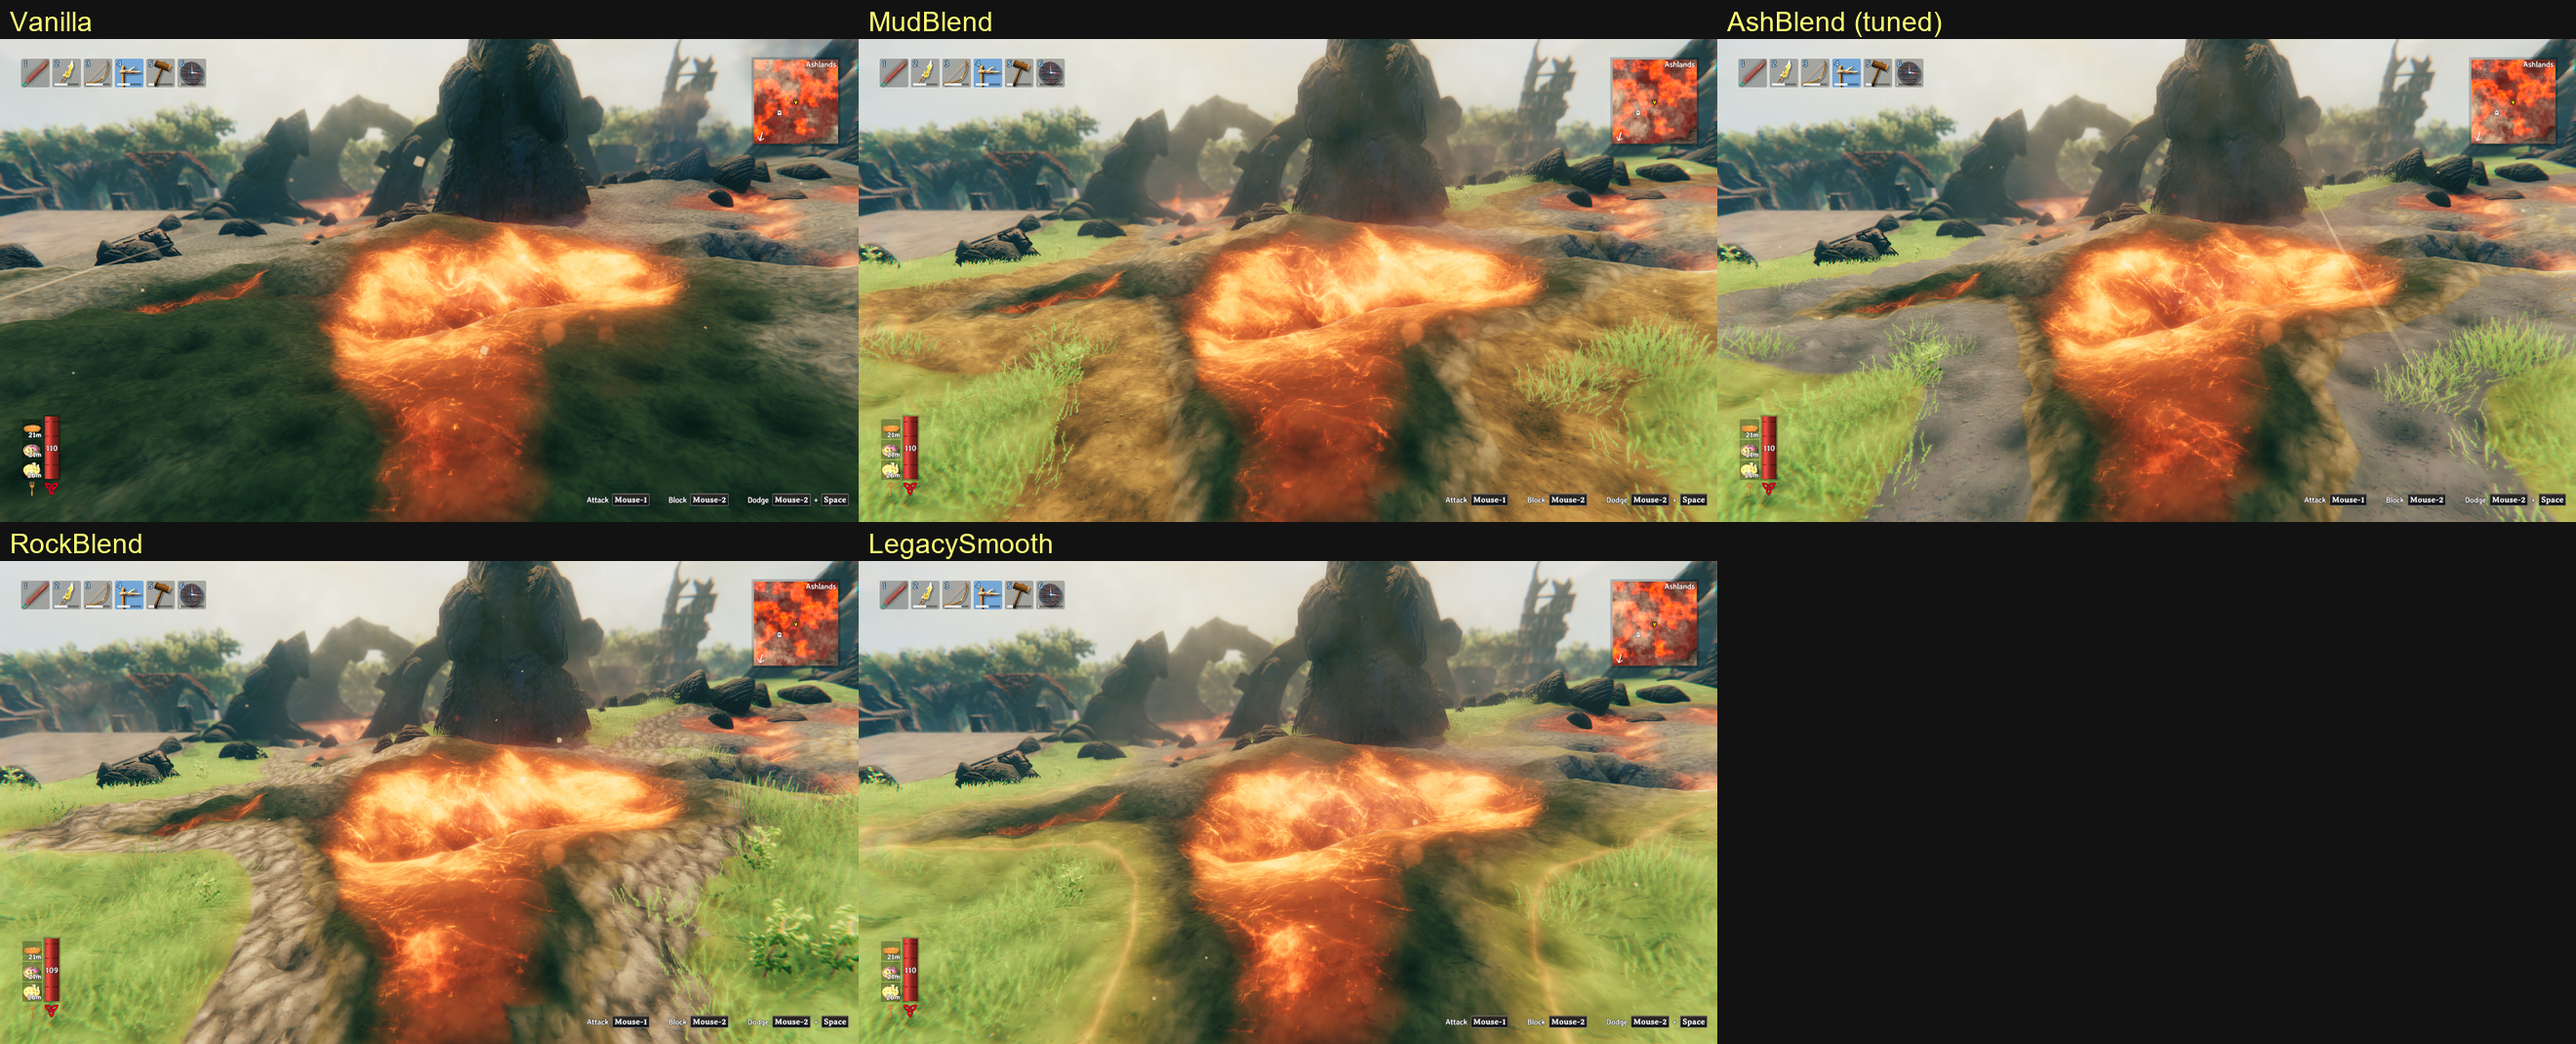
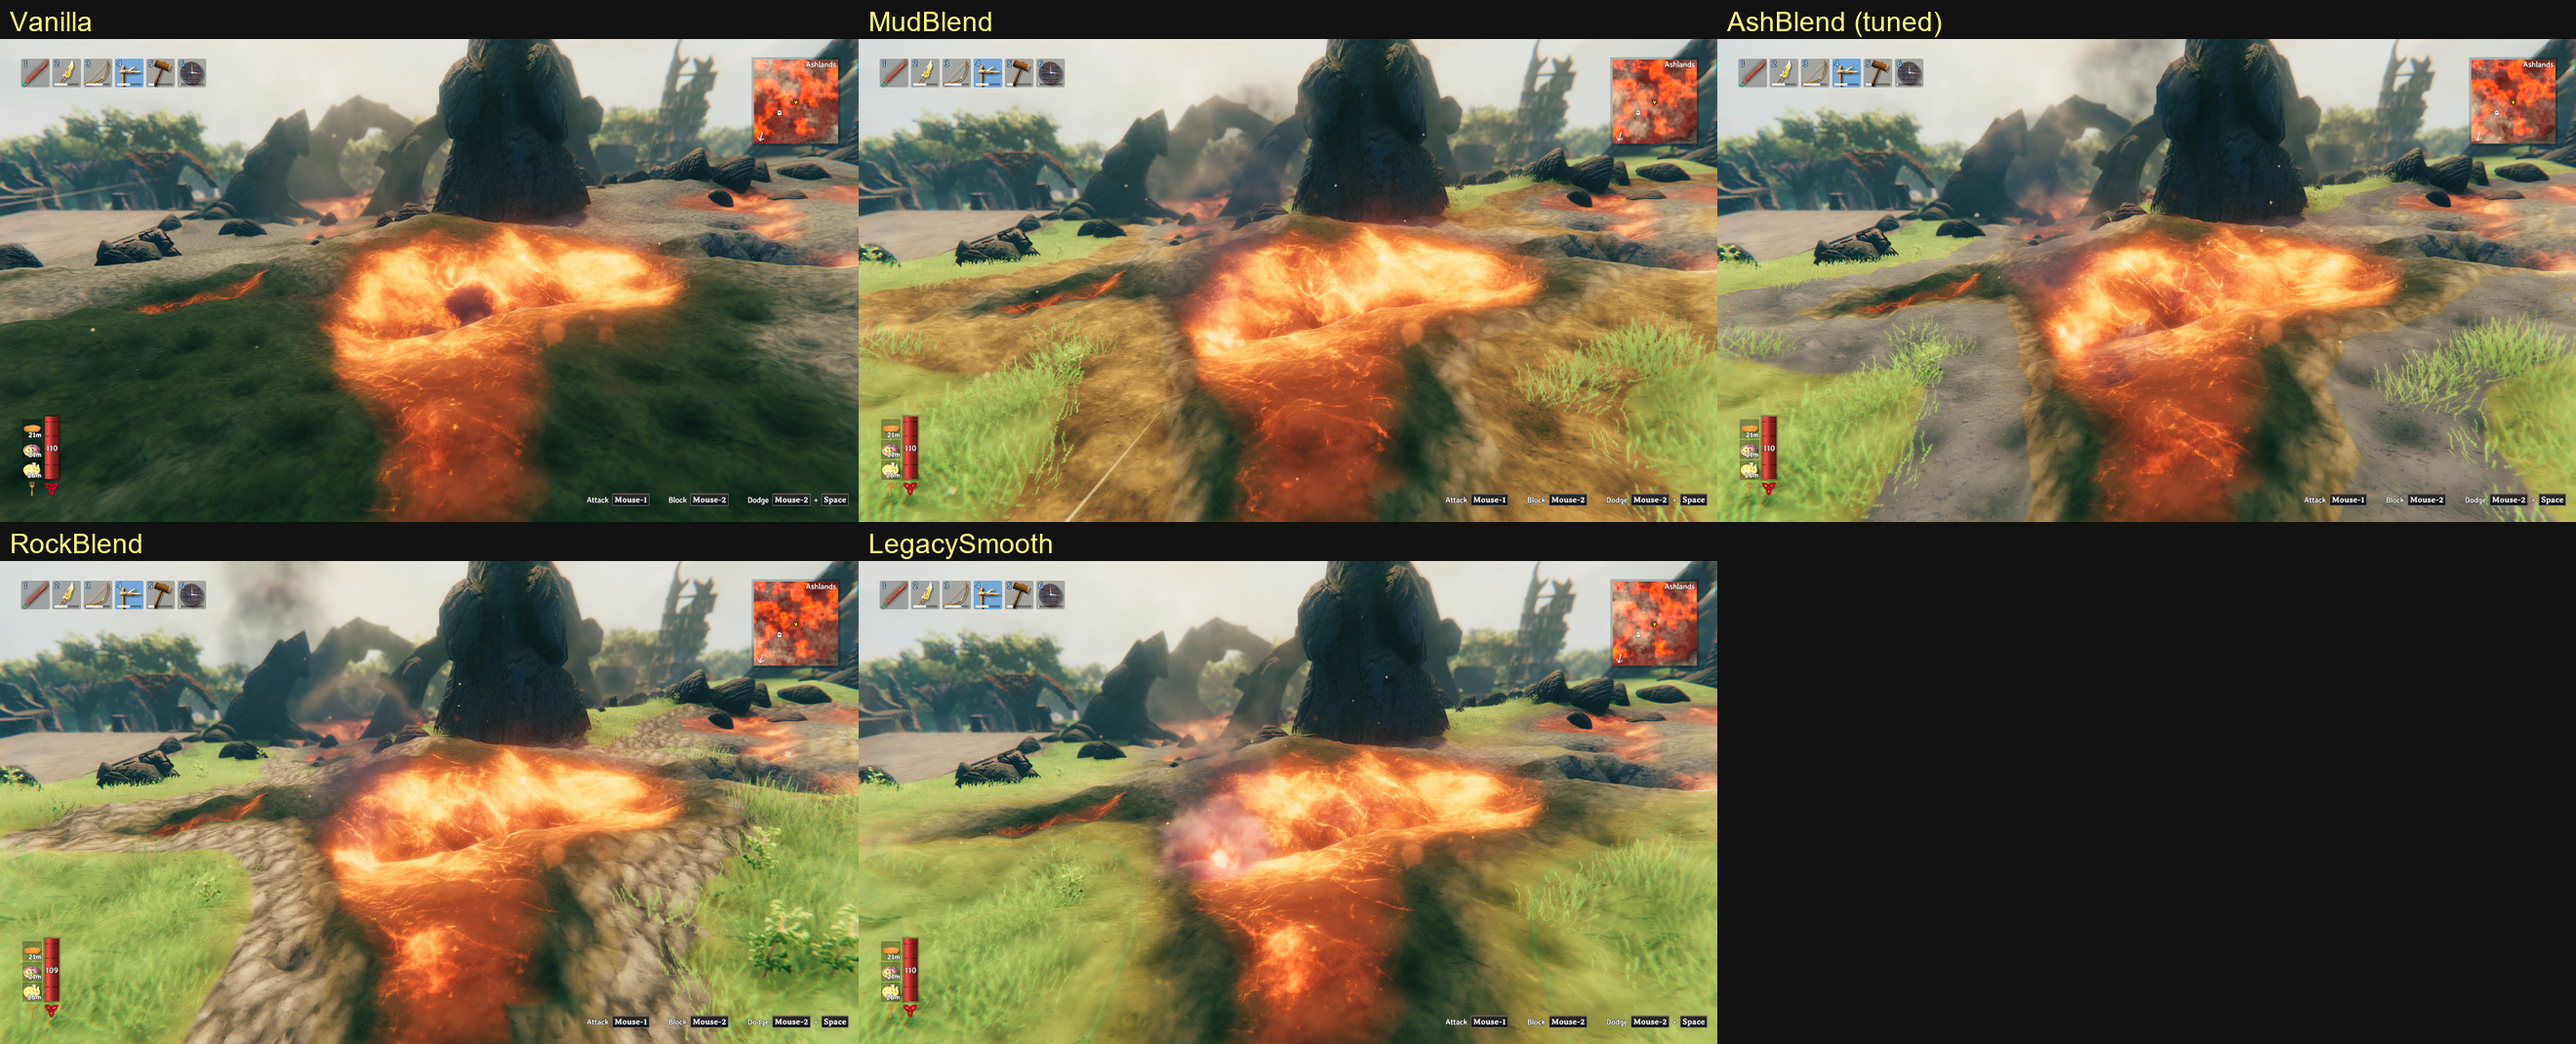
v4.2 wrap-up: plains line hidden; gallery, composites, docs, recon notes
Final verification (run 7, LegacySmoothSwapSlices=8:0 active): LAVACHECK/
GRASSCHECK PASS for all styled paths. Gallery refreshed; new composites:
compare_legacysmooth_plains_line (before/after) and the diagonal-ramp
diagnostic shot. SHADER_SLICE_MAPPING gains the v4.2 recon (slice 8
confirmed as the Plains overlay, line floats inside green because the
perceptual green/ash crossover sits near the ash end of the diagonal).

diff --git a/AshlandsReborn/README.md b/AshlandsReborn/README.md
@@ -18,7 +18,7 @@ BepInEx plugin that overrides Ashlands environment to Meadows-like weather (clea
 - **MasterSwitch** (default: true) - Master toggle: turn the entire mod on or off. When off, Ashlands uses default weather and terrain.
 - **EnableWeatherOverride** (default: true) - Override Ashlands weather to Meadows-like (clear sky, no cinder rain, no lava fog).
 - **EnableTerrainOverride** (default: true) - Override Ashlands terrain and grass to Meadows-like (green ground, green grass).
-- **TerrainTransitionStyle** (default: MudBlend) - How green terrain fades into ash/lava. `MudBlend` = grass -> scorched mud -> ash -> lava with organic noisy edges. `AshBlend` = the same fade but with no mud at all: grass fades directly into ash (the mod re-textures the mud layer as tone-graded ash on Ashlands chunks). `RockBlend` = a tight gray-rock rim between grass and lava, imitating the look of pickaxe-dug ground at the lava's edge. `GrassToLava` = grass runs almost to the lava rivers with a tight mud/ash rim. `Legacy` = the original binary stamp (blocky edges + yellow fringe). `LegacySmooth` = green blends straight into ash across one smooth curved fade, no mud stage (a soft warm tinge mid-fade replaces Legacy's hard yellow fringe). `DebugGradient` = dev calibration strips. Changing it live-rebuilds nearby terrain.
+- **TerrainTransitionStyle** (default: MudBlend) - How green terrain fades into ash/lava. `MudBlend` = grass -> scorched mud -> ash -> lava with organic noisy edges. `AshBlend` = the same fade but with no mud at all: grass fades directly into ash (the mod re-textures the mud layer as tone-graded ash on Ashlands chunks). `RockBlend` = a tight gray-rock rim between grass and lava, imitating the look of pickaxe-dug ground at the lava's edge. `GrassToLava` = grass runs almost to the lava rivers with a tight mud/ash rim. `Legacy` = the original binary stamp (blocky edges + yellow fringe). `LegacySmooth` = green blends straight into ash across one smooth curved fade, no mud stage (the yellow plains tinge the blend would produce mid-fade is re-textured as meadows grass - see LegacySmoothSwapSlices). `DebugGradient` = dev calibration strips. Changing it live-rebuilds nearby terrain.
 - **TransitionNoiseScale / TransitionNoiseStrength** (defaults: 0.08 / 0.08) - Frequency and amplitude of the edge-breakup noise on the transition contours.
 - **TransitionBlurRadius** (default: 2) - Lava-mask blur in vertices; smooths the banding.
 - **TransitionAshHold** (default: 0.2) - Lava-mask level at/above which terrain always renders as full vanilla ash (evaluated on the raw mask), keeping the glowing lava rim/cracks and the deadly lava boundary exactly vanilla. Lower = more vanilla ash retained around lava.
@@ -27,6 +27,7 @@ BepInEx plugin that overrides Ashlands environment to Meadows-like weather (clea
 - **AshBlendBandBrightness / AshBlendBandTint / AshBlendBandMix** (defaults: 1.43 / #DBE8FF / 0) - AshBlend band-tone grading: the swapped-in band texture is brightened, tinted, and optionally mixed with the grass texture so the fade band tonally matches the adjacent full-ash ground (a stock slice alone is much darker than the ash zone's multi-layer composite). Defaults are calibrated to within ~1% mean luminance. Tint components must stay <= 1; put overall lift into the brightness.
 - **AshBlendVariationColor** (default: olive #66804C) - The variation-overlay tint on the full-ash zone under AshBlend; lighter = paler ash side.
 - **RockBlendSwapSlices / RockBlendBandBrightness** (defaults: 3:5 / 1.0) - RockBlend's rock texture pick (3:5 = scaly base rock, 3:12 = cobblestone) and optional tone grading.
+- **LegacySmoothSwapSlices** (default: 8:0) - Hides the yellow plains line that LegacySmooth's green->ash blend would otherwise draw mid-fade, by rendering the plains texture layer as meadows grass on Ashlands chunks. Empty = vanilla textures (the line returns); '8:0,3:0' also re-textures the weak mud overlay (but makes hoe paths render grassy).
 - **EnableDevCommandsAndGodMode** (default: true) - When loading a world, run devcommands and god for easier testing.
 
 Use **ConfigurationManager** (F1 in-game) to toggle these at runtime without restarting.

diff --git a/CLAUDE.md b/CLAUDE.md
@@ -223,20 +223,30 @@ F1 dropdown, live rebuild via `SettingChanged` → `ForceTerrainRefresh`):
   paint over lava; G-ramp strip renders yellow-green, not clean gray, so a StoneAsh style
   was evaluated and rejected). Knobs: `TransitionAshHold`, `TransitionFadeWidth`,
   `TransitionNoiseScale/Strength`, `TransitionBlurRadius` — all live-refresh via F1.
-- **LegacySmooth (v4.1, TERRAIN_TRANSITION_V4_PLAN.md)**: Legacy's green↔full-ash look
-  (no mud stage) with MudBlend's curve quality: MudBlend's exact fade geometry — same
-  `[H−W, H]` anchors, same blurred+skirt+jitter field, same grass rule (shared code
+- **LegacySmooth (v4.1–4.2, TERRAIN_TRANSITION_V4_PLAN.md)**: Legacy's green↔full-ash
+  look (no mud stage) with MudBlend's curve quality: MudBlend's exact fade geometry —
+  same `[H−W, H]` anchors, same blurred+skirt+jitter field, same grass rule (shared code
   branch) — but R and A ramp TOGETHER along the `(t,0,0,t)` diagonal, i.e.
-  `BandColor(m, H−W, H, H−W, H)`. Mid-fade renders a soft warm tinge (the diagonal's
-  partial Plains/Swamp weights) — Legacy's hard yellow fringe spread gently along an
-  organic line; the A-ramp reaching 255 at H hides the AshHold gate like every band
-  style. Hard-won negative results (v4 runs 1–4, do NOT retry): a binary per-vertex
-  stamp, at ANY threshold, on ANY smooth field, with ANY jitter, renders
+  `BandColor(m, H−W, H, H−W, H)`; the A-ramp reaching 255 at H hides the AshHold gate
+  like every band style. Hard-won negative results (v4 runs 1–4, do NOT retry): a binary
+  per-vertex stamp, at ANY threshold, on ANY smooth field, with ANY jitter, renders
   lattice-quantized 90°/45° edges — stamping at the hold additionally exposes the raw
   gate's own lattice at mask cliffs; a narrow (~2-cell) AA ramp fails the same way
   because the full green/ash contrast compresses into ~1 vertex. Curves require the
   fade to span the whole band width (~4 vertices), which is why the final design is
   just MudBlend's geometry with a diagonal color path.
+- **LegacySmooth plains-line hiding (v4.2)**: the diagonal's mid-fade carries partial
+  Plains weight (`1 − max(t, 1−t)`, peak 0.5), which renders the khaki slice-8 overlay
+  as a yellow line floating INSIDE otherwise-green ground — green on BOTH sides, because
+  the perceptual green/ash crossover sits near the ash end of the ramp (empirically
+  charted with `LegacySmoothDebugRamp`, which paints the raw diagonal across each chunk;
+  it bypasses the hold gate, dev only). Since the line is bounded by meadows, it is
+  hidden UNDER meadows: `LegacySmoothSwapSlices` (default `8:0`) gives LegacySmooth its
+  own patched diffuse array with grass copied over the plains slice, so the plains
+  overlay renders as the grass that surrounds it. `8:0,3:0` also swaps the weak swamp-mud
+  overlay (same mid-fade window) — visually indistinguishable in probes, but slice 3
+  doubles as the hoe-path texture, so the targeted default preserves path visibility.
+  Empty spec = vanilla array = the yellow line returns.
 - **AshBlend (v3, TERRAIN_NO_MUD_PLAN.md)**: green fades directly into ash; identical to
   MudBlend in band/skirt/grass code (only the material differs). Do NOT re-attempt a
   direct green→ash fade in vertex-color space: biome weights are Chebyshev distances

diff --git a/SHADER_SLICE_MAPPING.md b/SHADER_SLICE_MAPPING.md
@@ -73,6 +73,23 @@ mid-fade - the yellow fringe, exactly.
 never touches the normal path, so an AshBlend-style slice swap needs no normal-array
 patch. Slice 3's alpha modulates the overlay strength (`mad_sat` with the weight).
 
+## v4.2 recon (2026-07-12, LegacySmooth plains line)
+
+Empirically confirmed via the `LegacySmoothDebugRamp` diagnostic (paints the raw
+(b,0,0,b) diagonal west→east across a chunk) + slice swaps:
+
+- The khaki **slice 8 IS the Plains overlay** that draws the "yellow line" on the
+  green→ash diagonal: mid-ramp (b≈128, Plains weight peak 0.5) renders a distinct
+  khaki band, and cloning the array with `8:0` (grass over plains) removes it
+  completely. Like the swamp overlay it needs no normal-array patch.
+- The line floats INSIDE green territory: the perceptual green/ash crossover sits
+  near the ash end of the ramp (dark ash only dominates at high b), so the ramp
+  reads green → khaki line → gray-green → ash. Both neighbors of the line are
+  green(ish) — which is exactly why hiding it under the grass texture works.
+- The swamp-mud overlay (slice 3) shares the mid-ramp window but its diagonal
+  weight is weak (gate >0.4, peak 0.5 → ~half-strength overlay): `8:0,3:0` is
+  visually indistinguishable from `8:0` in probes.
+
 ## Recommendations for Ashlands Reborn
 
 To fully replace Ashlands terrain with grass (Meadows), swap these slices with grass (e.g. slice 0):
